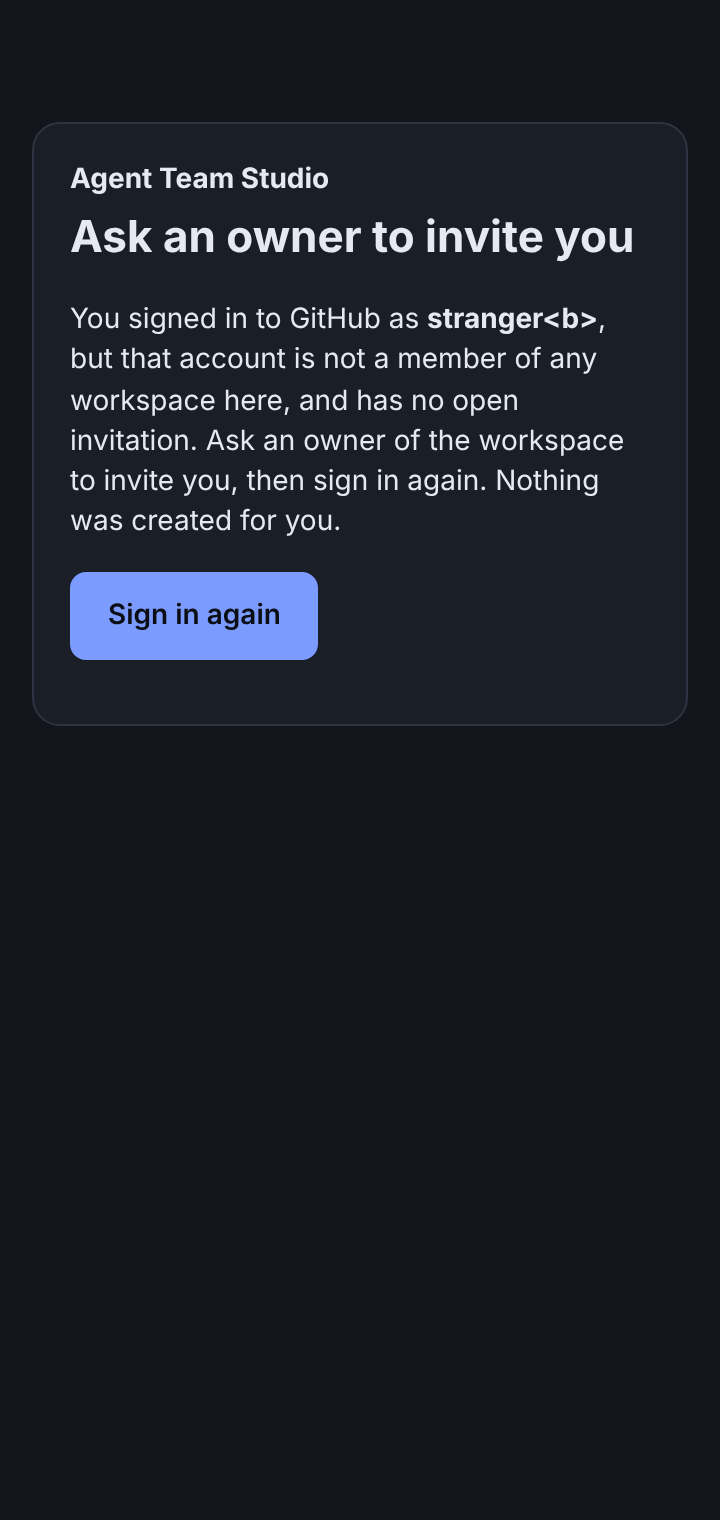
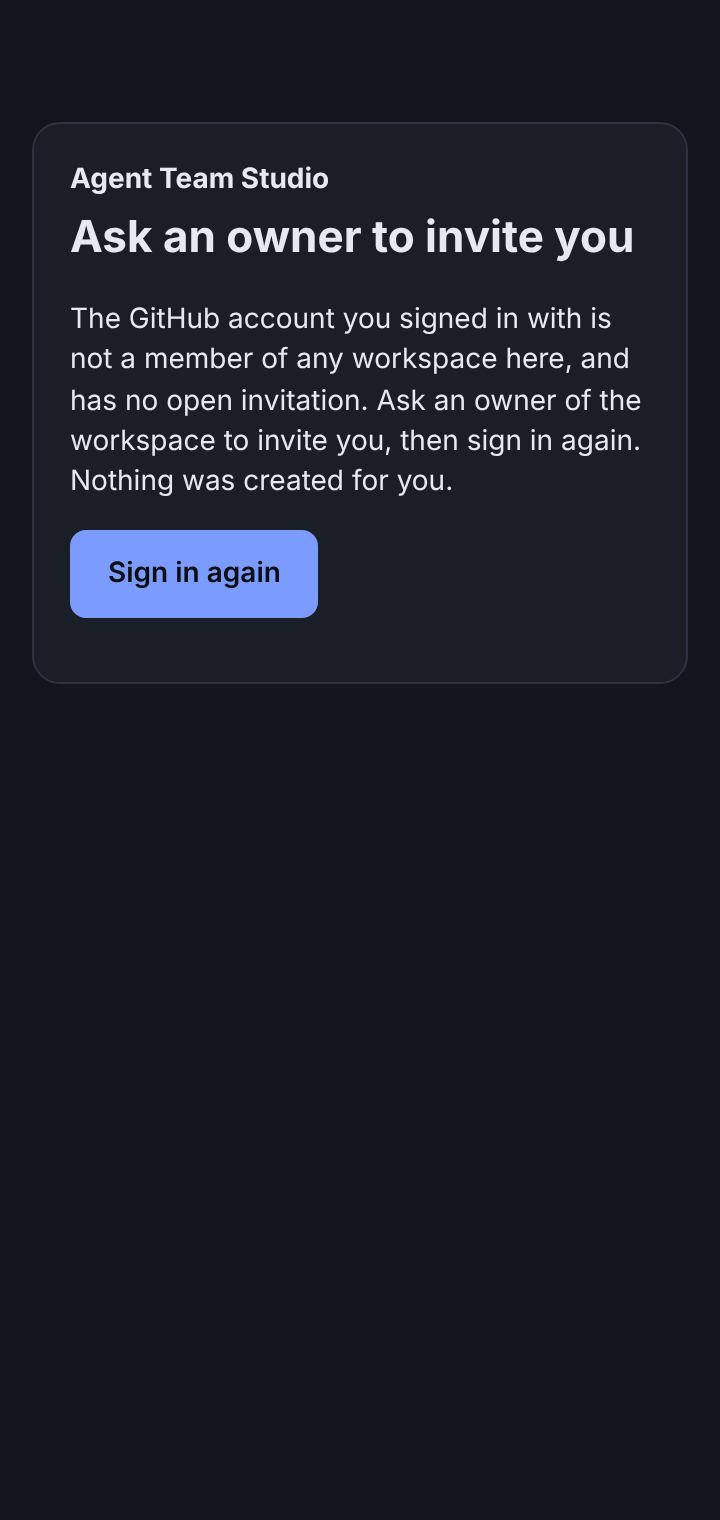
Sign-in pages: refuse dot segments in return paths; step up before a second passkey; no login from the URL
Code review on #59: '/.//evil.com' and '/a/..//evil.com' normalised to
'//evil.com' (sev 2). safeReturn now refuses dot segments, raw or encoded, and
checks its output too. A second passkey ran create() before step-up and left
an orphan credential (sev 3): step-up now comes first, one create() in all.
Security review follow-up: the not-invited page no longer shows a login taken
from the URL.

Claude-Session: https://claude.ai/code/session_01CtT1rLNW9YJYwkYiXvhcVj

Changed region(s): [[0.0917, 0.1855, 0.8861, 0.4329]]

diff --git a/apps/studio/public/sign-in.js b/apps/studio/public/sign-in.js
@@ -1,6 +1,6 @@
 // The issuer's sign-in page (docs/specs/m4-sign-in.md section 2, step 2). The issuer sends a person here with an
 // interaction id when they have no session, or with an error code after GitHub. Everything shown comes from a fixed
-// list of messages; the only value from the address bar that reaches the page is the GitHub login, as text.
+// list of messages: nothing from the address bar reaches the page as text.
 import { esc, githubStart, signInUrl } from './auth.js';
 
 const q = new URLSearchParams(location.search);
@@ -10,7 +10,8 @@ const title = document.getElementById('auth-title');
 const MESSAGES = {
   'not-invited': {
     title: 'Ask an owner to invite you',
-    text: (login) => `${login ? `You signed in to GitHub as <strong>${esc(login)}</strong>, but that account` : 'That GitHub account'} is not a member of any workspace here, and has no open invitation. Ask an owner of the workspace to invite you, then sign in again. Nothing was created for you.`,
+    // No login from the address bar: anyone can craft this link, so the page names no account (security review, #59).
+    text: () => 'The GitHub account you signed in with is not a member of any workspace here, and has no open invitation. Ask an owner of the workspace to invite you, then sign in again. Nothing was created for you.',
   },
   expired: { title: 'That sign-in took too long', text: () => 'The sign-in link expired before it finished. Start again.' },
   denied: { title: 'GitHub did not sign you in', text: () => 'The sign-in was cancelled or refused at GitHub. Start again when you are ready.' },
@@ -25,7 +26,7 @@ if (err && MESSAGES[err]) {
   const m = MESSAGES[err];
   title.textContent = m.title;
   document.title = `${m.title} · Agent Team Studio`;
-  body.innerHTML = `<p>${m.text(q.get('login')?.slice(0, 39))}</p>${again}`;
+  body.innerHTML = `<p>${m.text()}</p>${again}`;
 } else if (err) {
   title.textContent = 'Sign-in did not finish';
   body.innerHTML = `<p>Something went wrong while signing you in. Start again.</p>${again}`;

diff --git a/apps/studio/public/account.js b/apps/studio/public/account.js
@@ -49,17 +49,21 @@ document.getElementById('passkey-add-form').addEventListener('submit', async (e)
   const button = e.submitter ?? dlg.querySelector('button[type="submit"]');
   button.disabled = true;
   out.textContent = '';
-  let r = await addPasskey(name);
-  // Every passkey after the first, or the first one long after signing in, needs one you already have.
-  if (needsStepUp(r)) {
+  // Every passkey after the first needs one you already have. Ask first: creating the new credential before the
+  // server says no would leave a passkey on the device that the server never heard of (code review, PR #59).
+  let header = {};
+  if (keys.length) {
     dlg.close();
-    const header = keys.length ? await stepUpDialog('Adding a passkey lets that device approve things for you.') : null;
-    if (!keys.length) { note = 'Your sign-in is too old to add a first passkey. Sign out and in again, then add it.'; button.disabled = false; return render(); }
-    if (!header) { button.disabled = false; return; }
+    header = await stepUpDialog('Adding a passkey lets that device approve things for you.');
+    button.disabled = false;
+    if (!header) return;
     dlg.showModal();
-    r = await addPasskey(name, header);
+    button.disabled = true;
   }
+  const r = await addPasskey(name, header);
   button.disabled = false;
+  // A first passkey needs a sign-in under 5 minutes old; after that, the only way is to sign in again.
+  if (needsStepUp(r) && !keys.length) { dlg.close(); note = 'Your sign-in is too old to add a first passkey. Sign out and in again, then add it.'; return render(); }
   if (!r.ok) { out.textContent = r.data.error ?? `HTTP ${r.status}`; return; }
   dlg.close();
   note = '';

diff --git a/apps/studio/public/auth.js b/apps/studio/public/auth.js
@@ -25,10 +25,14 @@ export function safeReturn(raw) {
   if (raw[0] !== '/' || raw[1] === '/' || raw[1] === '\\') return '/';
   // Encoded slashes and backslashes, anywhere: a server or proxy that decodes once would see '//' or '/\'.
   if (/\\|%2f|%5c|%25/i.test(raw)) return '/';
+  // Dot segments, raw or encoded: normalising '/.//evil' or '/a/..//evil' yields '//evil' (code review, PR #59).
+  if (/(^|\/)(\.|%2e){1,2}(\/|$)/i.test(raw.split(/[?#]/)[0])) return '/';
   let url;
   try { url = new URL(raw, 'https://host.invalid'); } catch { return '/'; }
   if (url.origin !== 'https://host.invalid') return '/';
-  return url.pathname + url.search + url.hash;
+  const out = url.pathname + url.search + url.hash;
+  // And check what comes out, not only what went in: whatever the parser did, the result is one leading '/'.
+  return out[0] === '/' && out[1] !== '/' && out[1] !== '\\' ? out : '/';
 }
 
 /** Where the sign-in page sends "Continue with GitHub": built only from an interaction id the issuer gave. */
